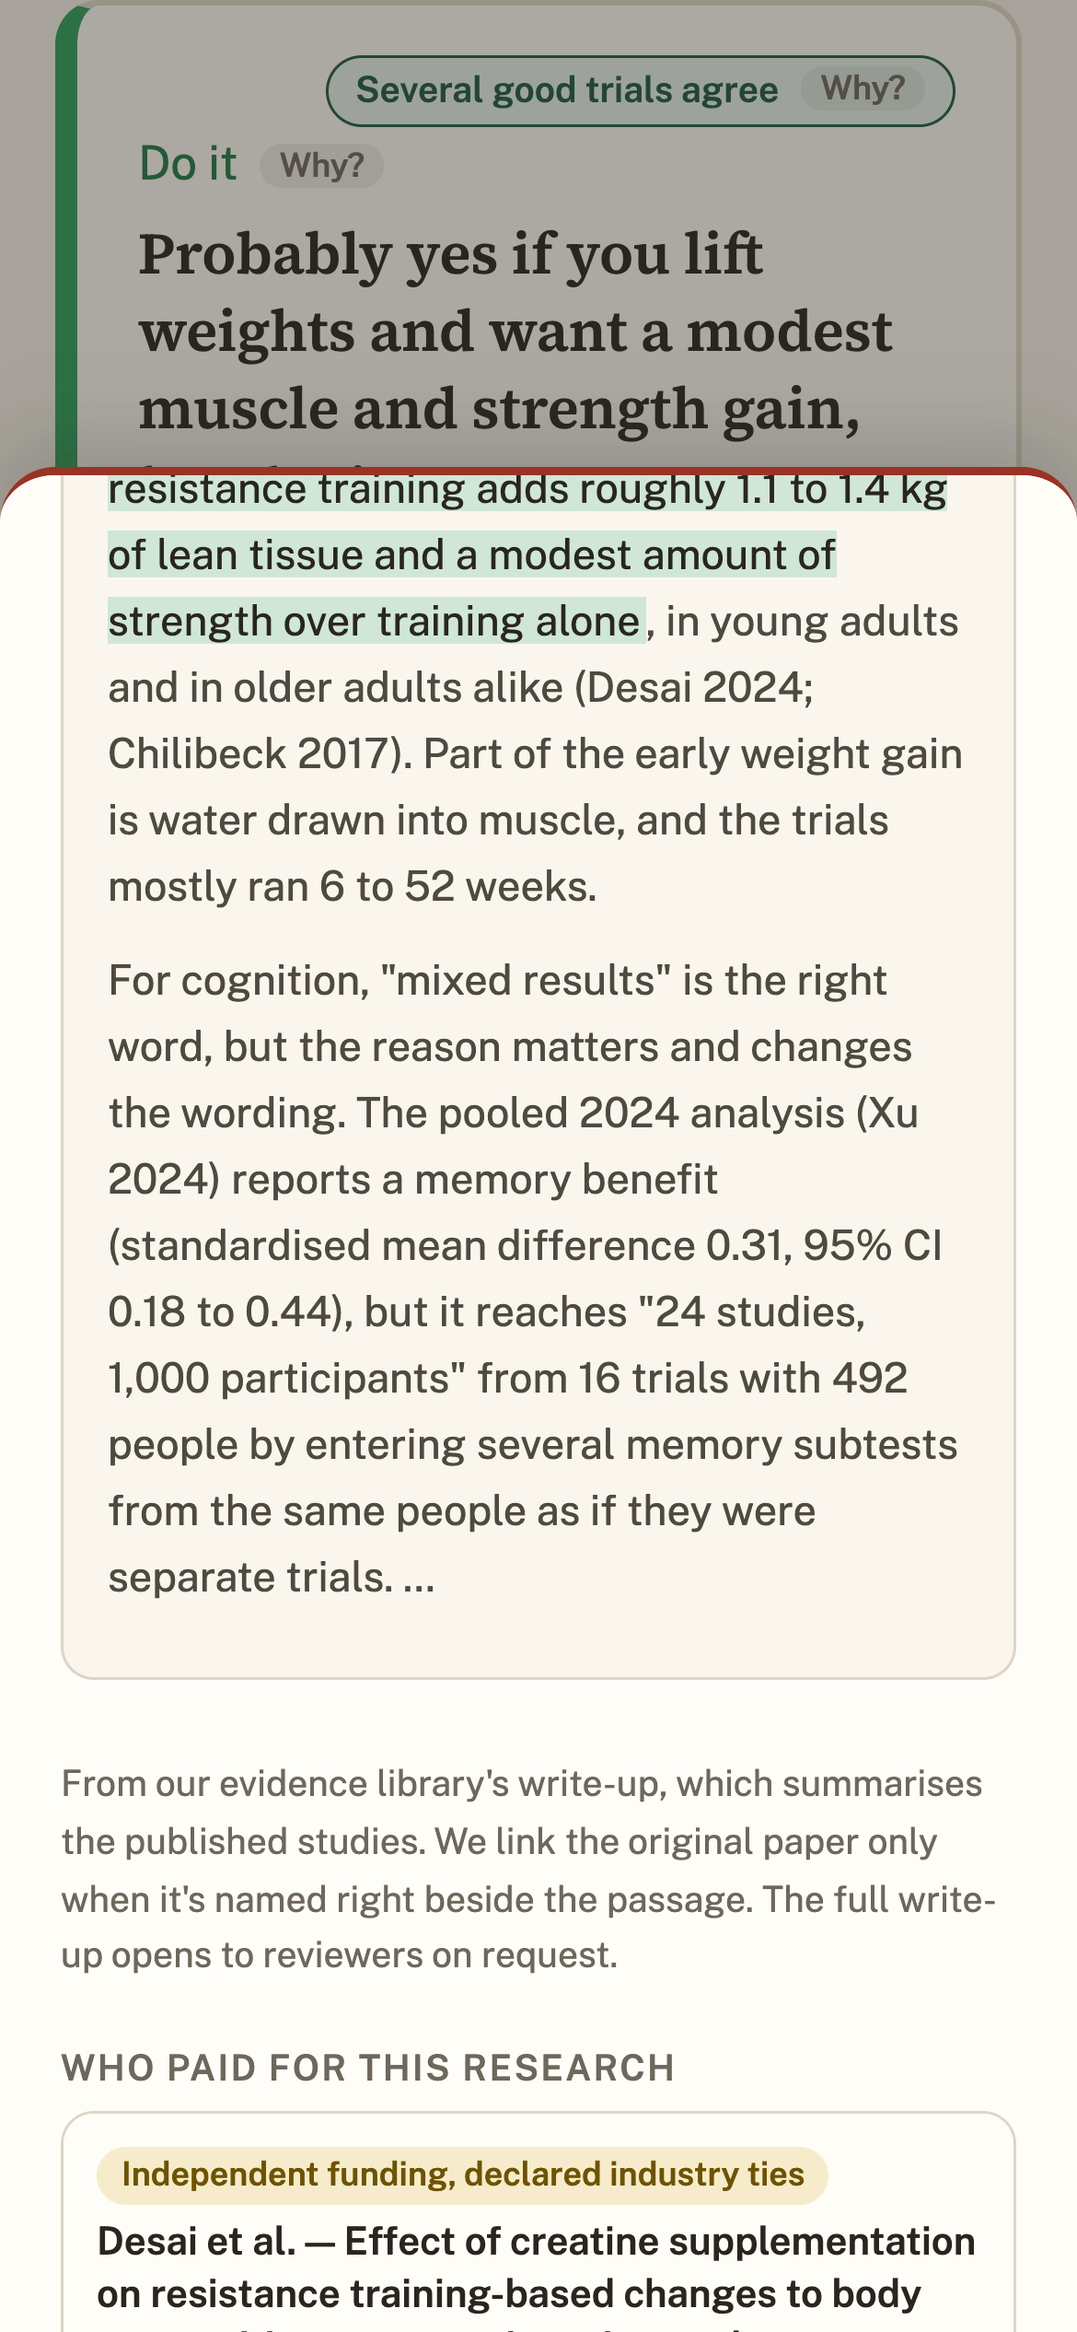
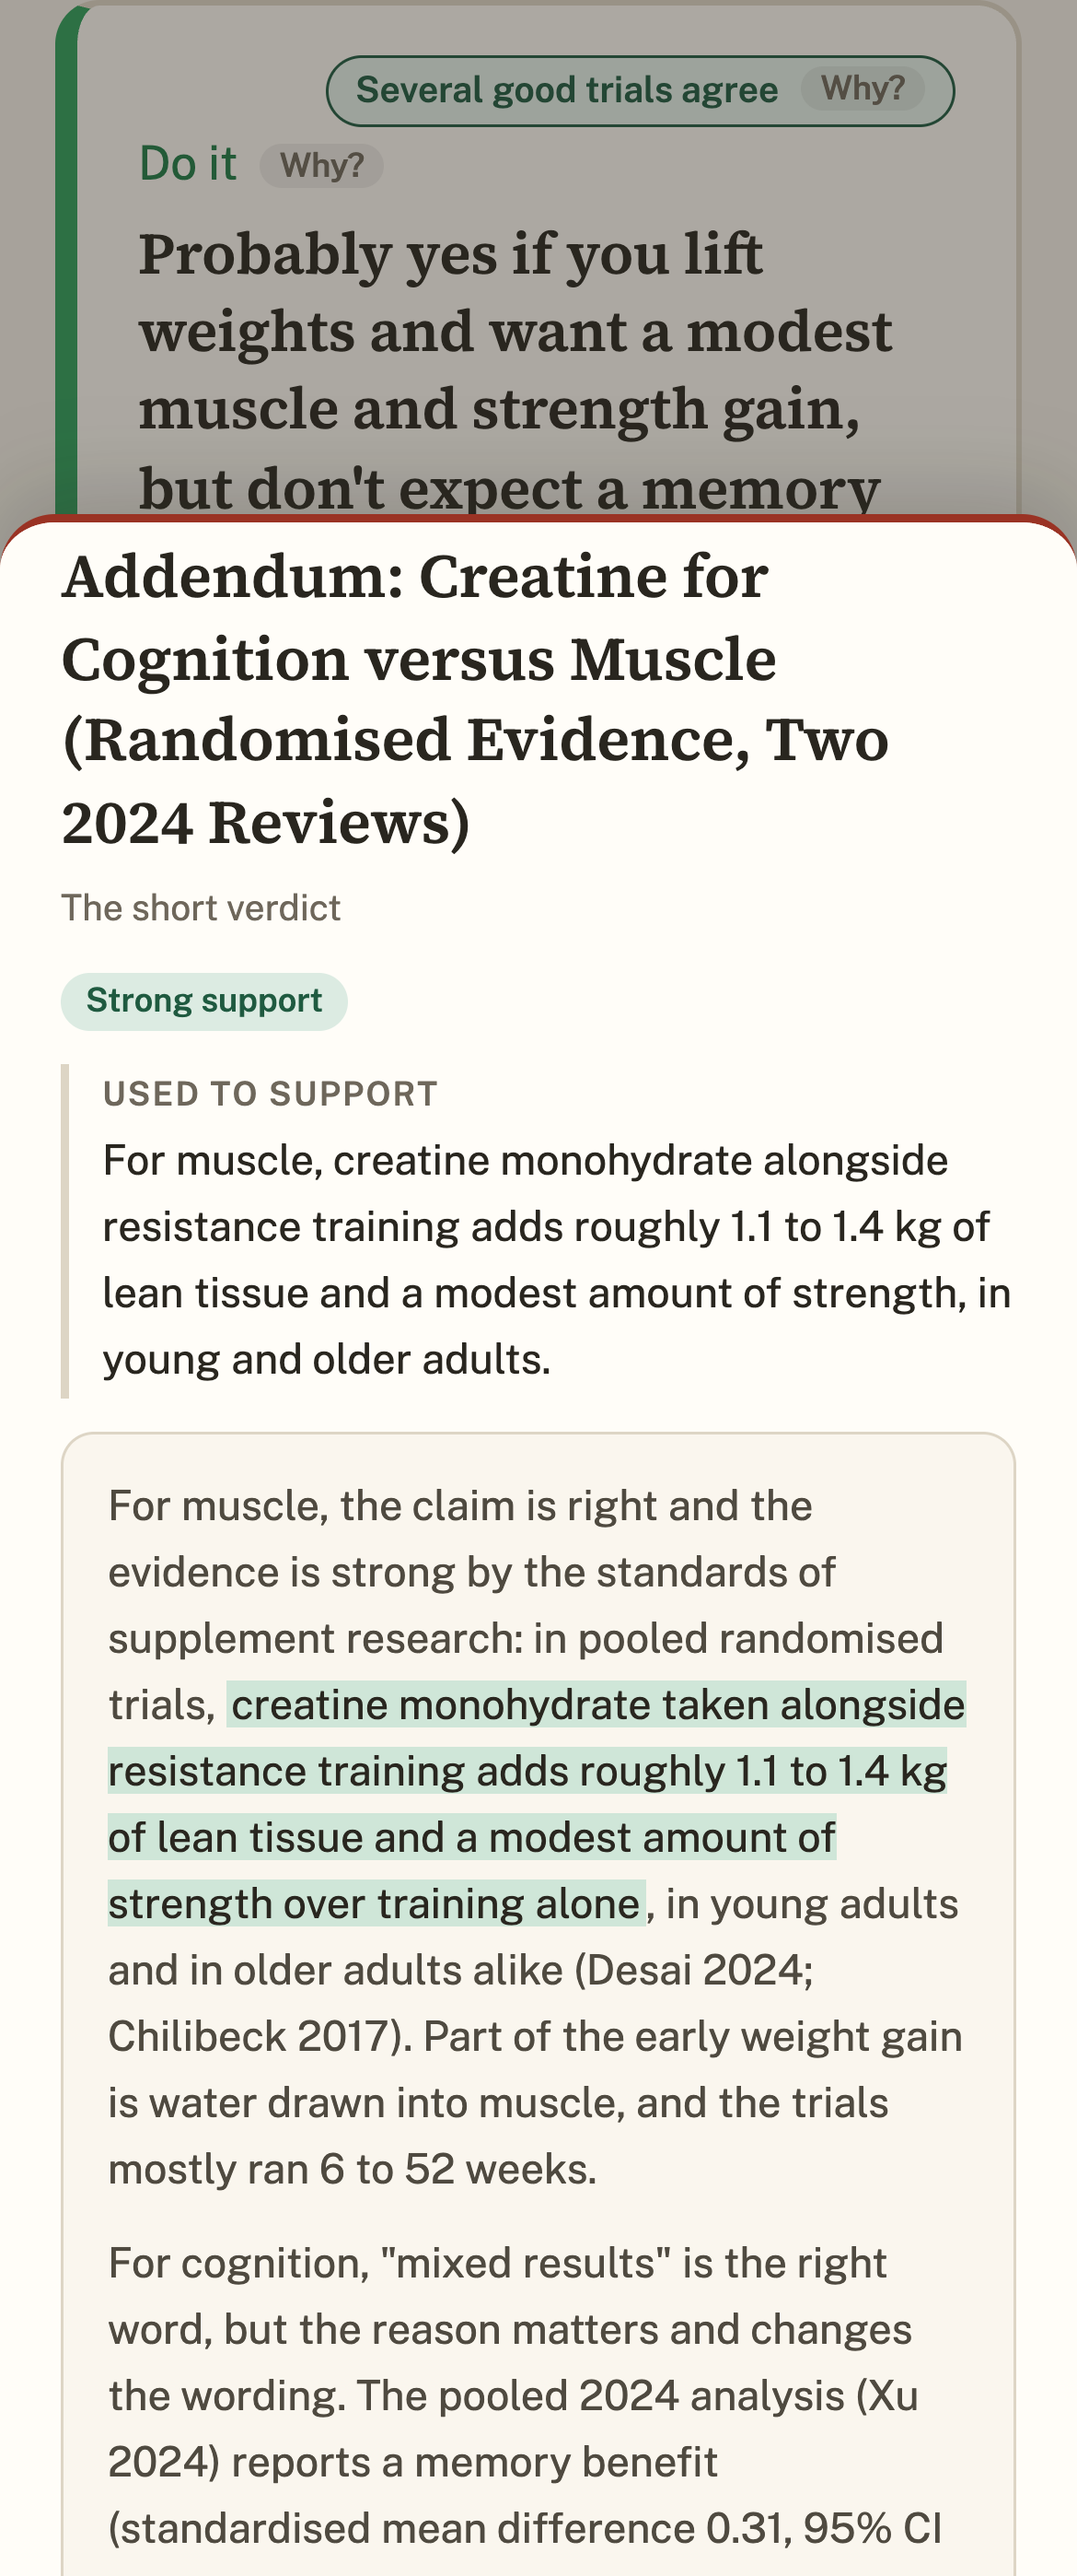
Polish walkthrough question labels and recapture full citation highlight

diff --git a/index.html b/index.html
@@ -351,10 +351,10 @@ OTHER DEALINGS IN THE FONT SOFTWARE.
     #how-it-works h3 span { color: var(--accent); margin-right: 6px; }
     #how-it-works .walk-step-one { margin-top: 28px; }
     #how-it-works .walk-step-one > p, #how-it-works .walk-copy p { color: var(--ink); max-width: 64ch; line-height: 1.65; }
-    #how-it-works .answer-examples { display: grid; grid-template-columns: repeat(3, minmax(0, 1fr)); gap: 24px; margin-top: 24px; align-items: stretch; }
+    #how-it-works .answer-examples { display: grid; grid-template-columns: repeat(3, minmax(0, 1fr)); gap: 24px; margin-top: 24px; align-items: start; }
     #how-it-works .answer-example { min-width: 0; margin: 0; display: flex; flex-direction: column; }
-    #how-it-works .answer-example figcaption { font-size: 16px; line-height: 1.45; color: var(--ink); min-height: 48px; margin: 0 0 12px; }
-    #how-it-works .answer-capture { display: block; flex: 1; border: 1px solid var(--line); border-radius: 12px; overflow: hidden; background: var(--surface); }
+    #how-it-works .answer-example figcaption { font: 400 17px/1.45 var(--serif); color: var(--ink); min-height: 74px; margin: 0 0 12px; border: 2px solid var(--accent); border-radius: 12px; padding: 10px 14px; background: var(--surface); display: flex; align-items: center; }
+    #how-it-works .answer-capture { display: block; }
     #how-it-works .answer-capture img { display: block; width: 100%; height: auto; }
     #how-it-works .walk-row { display: grid; grid-template-columns: minmax(0, 1fr) 300px; align-items: center; gap: 64px; margin-top: 56px; padding-top: 40px; border-top: 1px solid var(--line); }
     #how-it-works .walk-copy { min-width: 0; }
@@ -363,6 +363,9 @@ OTHER DEALINGS IN THE FONT SOFTWARE.
     #how-it-works .walk-row-reverse { grid-template-columns: 300px minmax(0, 1fr); }
     #how-it-works .walk-row-reverse .phone { grid-column: 1; grid-row: 1; }
     #how-it-works .walk-row-reverse .walk-copy { grid-column: 2; grid-row: 1; }
+    @media (min-width: 860px) and (max-width: 1000px) {
+      #how-it-works .answer-example figcaption { min-height: 100px; }
+    }
     @media (max-width: 859px) {
       #how-it-works .answer-examples { grid-template-columns: minmax(0, 1fr); gap: 28px; }
       #how-it-works .answer-example { width: 100%; max-width: 420px; margin-inline: auto; }
@@ -432,15 +435,15 @@ OTHER DEALINGS IN THE FONT SOFTWARE.
           <p>A plain verdict first, then the catch: the limits that matter before you act on it.</p>
           <div class="answer-examples">
             <figure class="answer-example">
-              <figcaption>Should I take creatine or not?</figcaption>
+              <figcaption>“Should I take creatine or not?”</figcaption>
               <a class="answer-capture" href="assets/screens/creatine-verdict-2026-10-12.webp" target="_blank" rel="noopener" aria-label="Open the real creatine verdict card at full size"><img src="assets/screens/creatine-verdict-2026-10-12.webp" width="1050" height="1839" loading="lazy" decoding="async" alt="Green creatine card: Do it, several good trials agree, modest muscle and strength gains with the catch and safety limits."></a>
             </figure>
             <figure class="answer-example">
-              <figcaption>Does magnesium help sleep?</figcaption>
+              <figcaption>“Does magnesium help sleep?”</figcaption>
               <a class="answer-capture" href="assets/screens/magnesium-verdict-2026-10-12.webp" target="_blank" rel="noopener" aria-label="Open the real magnesium verdict card at full size"><img src="assets/screens/magnesium-verdict-2026-10-12.webp" width="1050" height="1275" loading="lazy" decoding="async" alt="Yellow magnesium card: evidence with limits, possible modest help falling asleep, low-quality evidence and a catch about small and industry-funded trials."></a>
             </figure>
             <figure class="answer-example">
-              <figcaption>Ensure protein powder with kidney disease?</figcaption>
+              <figcaption>“Ensure protein powder with kidney disease?”</figcaption>
               <a class="answer-capture" href="assets/screens/ensure-kidney-verdict-2026-10-12.webp" target="_blank" rel="noopener" aria-label="Open the real Ensure and kidney disease verdict card at full size"><img src="assets/screens/ensure-kidney-verdict-2026-10-12.webp" width="1050" height="1359" loading="lazy" decoding="async" alt="Red kidney-disease card: your doctor’s call; do not start protein powder independently, with a catch explaining the library’s healthy-person evidence does not cover existing kidney disease."></a>
             </figure>
           </div>
@@ -461,8 +464,8 @@ OTHER DEALINGS IN THE FONT SOFTWARE.
             <p>Tap a numbered citation. The exact passage that supports the point is highlighted, along with who paid for the research.</p>
           </div>
           <figure class="phone">
-            <a class="phone-link" href="assets/screens/creatine-phone-passage-2026-10-12.webp" target="_blank" rel="noopener" aria-label="Open the creatine citation and funding phone screen at full size"><div class="phone-frame"><img src="assets/screens/creatine-phone-passage-2026-10-12.webp" width="1170" height="2532" loading="lazy" decoding="async" alt="Real phone screen with creatine citation 1 open as a bottom sheet, scrolled to the green highlighted passage and Who paid for this research disclosure."></div></a>
-            <figcaption>Citation [1]: the supporting passage and funding disclosure.</figcaption>
+            <a class="phone-link" href="assets/screens/creatine-phone-passage-2026-10-12.webp" target="_blank" rel="noopener" aria-label="Open the creatine citation and funding phone screen at full size"><div class="phone-frame"><img src="assets/screens/creatine-phone-passage-2026-10-12.webp" width="1170" height="2796" loading="lazy" decoding="async" alt="Real phone screen with creatine citation 1 open as a bottom sheet, scrolled to the complete source title and green highlighted passage."></div></a>
+            <figcaption>Citation [1]: the source title and full supporting highlight.</figcaption>
           </figure>
         </div>
         <p class="note walk-note">Real saved demo screens, captured 12 October 2026 at 3× resolution. These prototype answers are not clinically reviewed and are not personal medical advice.</p>
